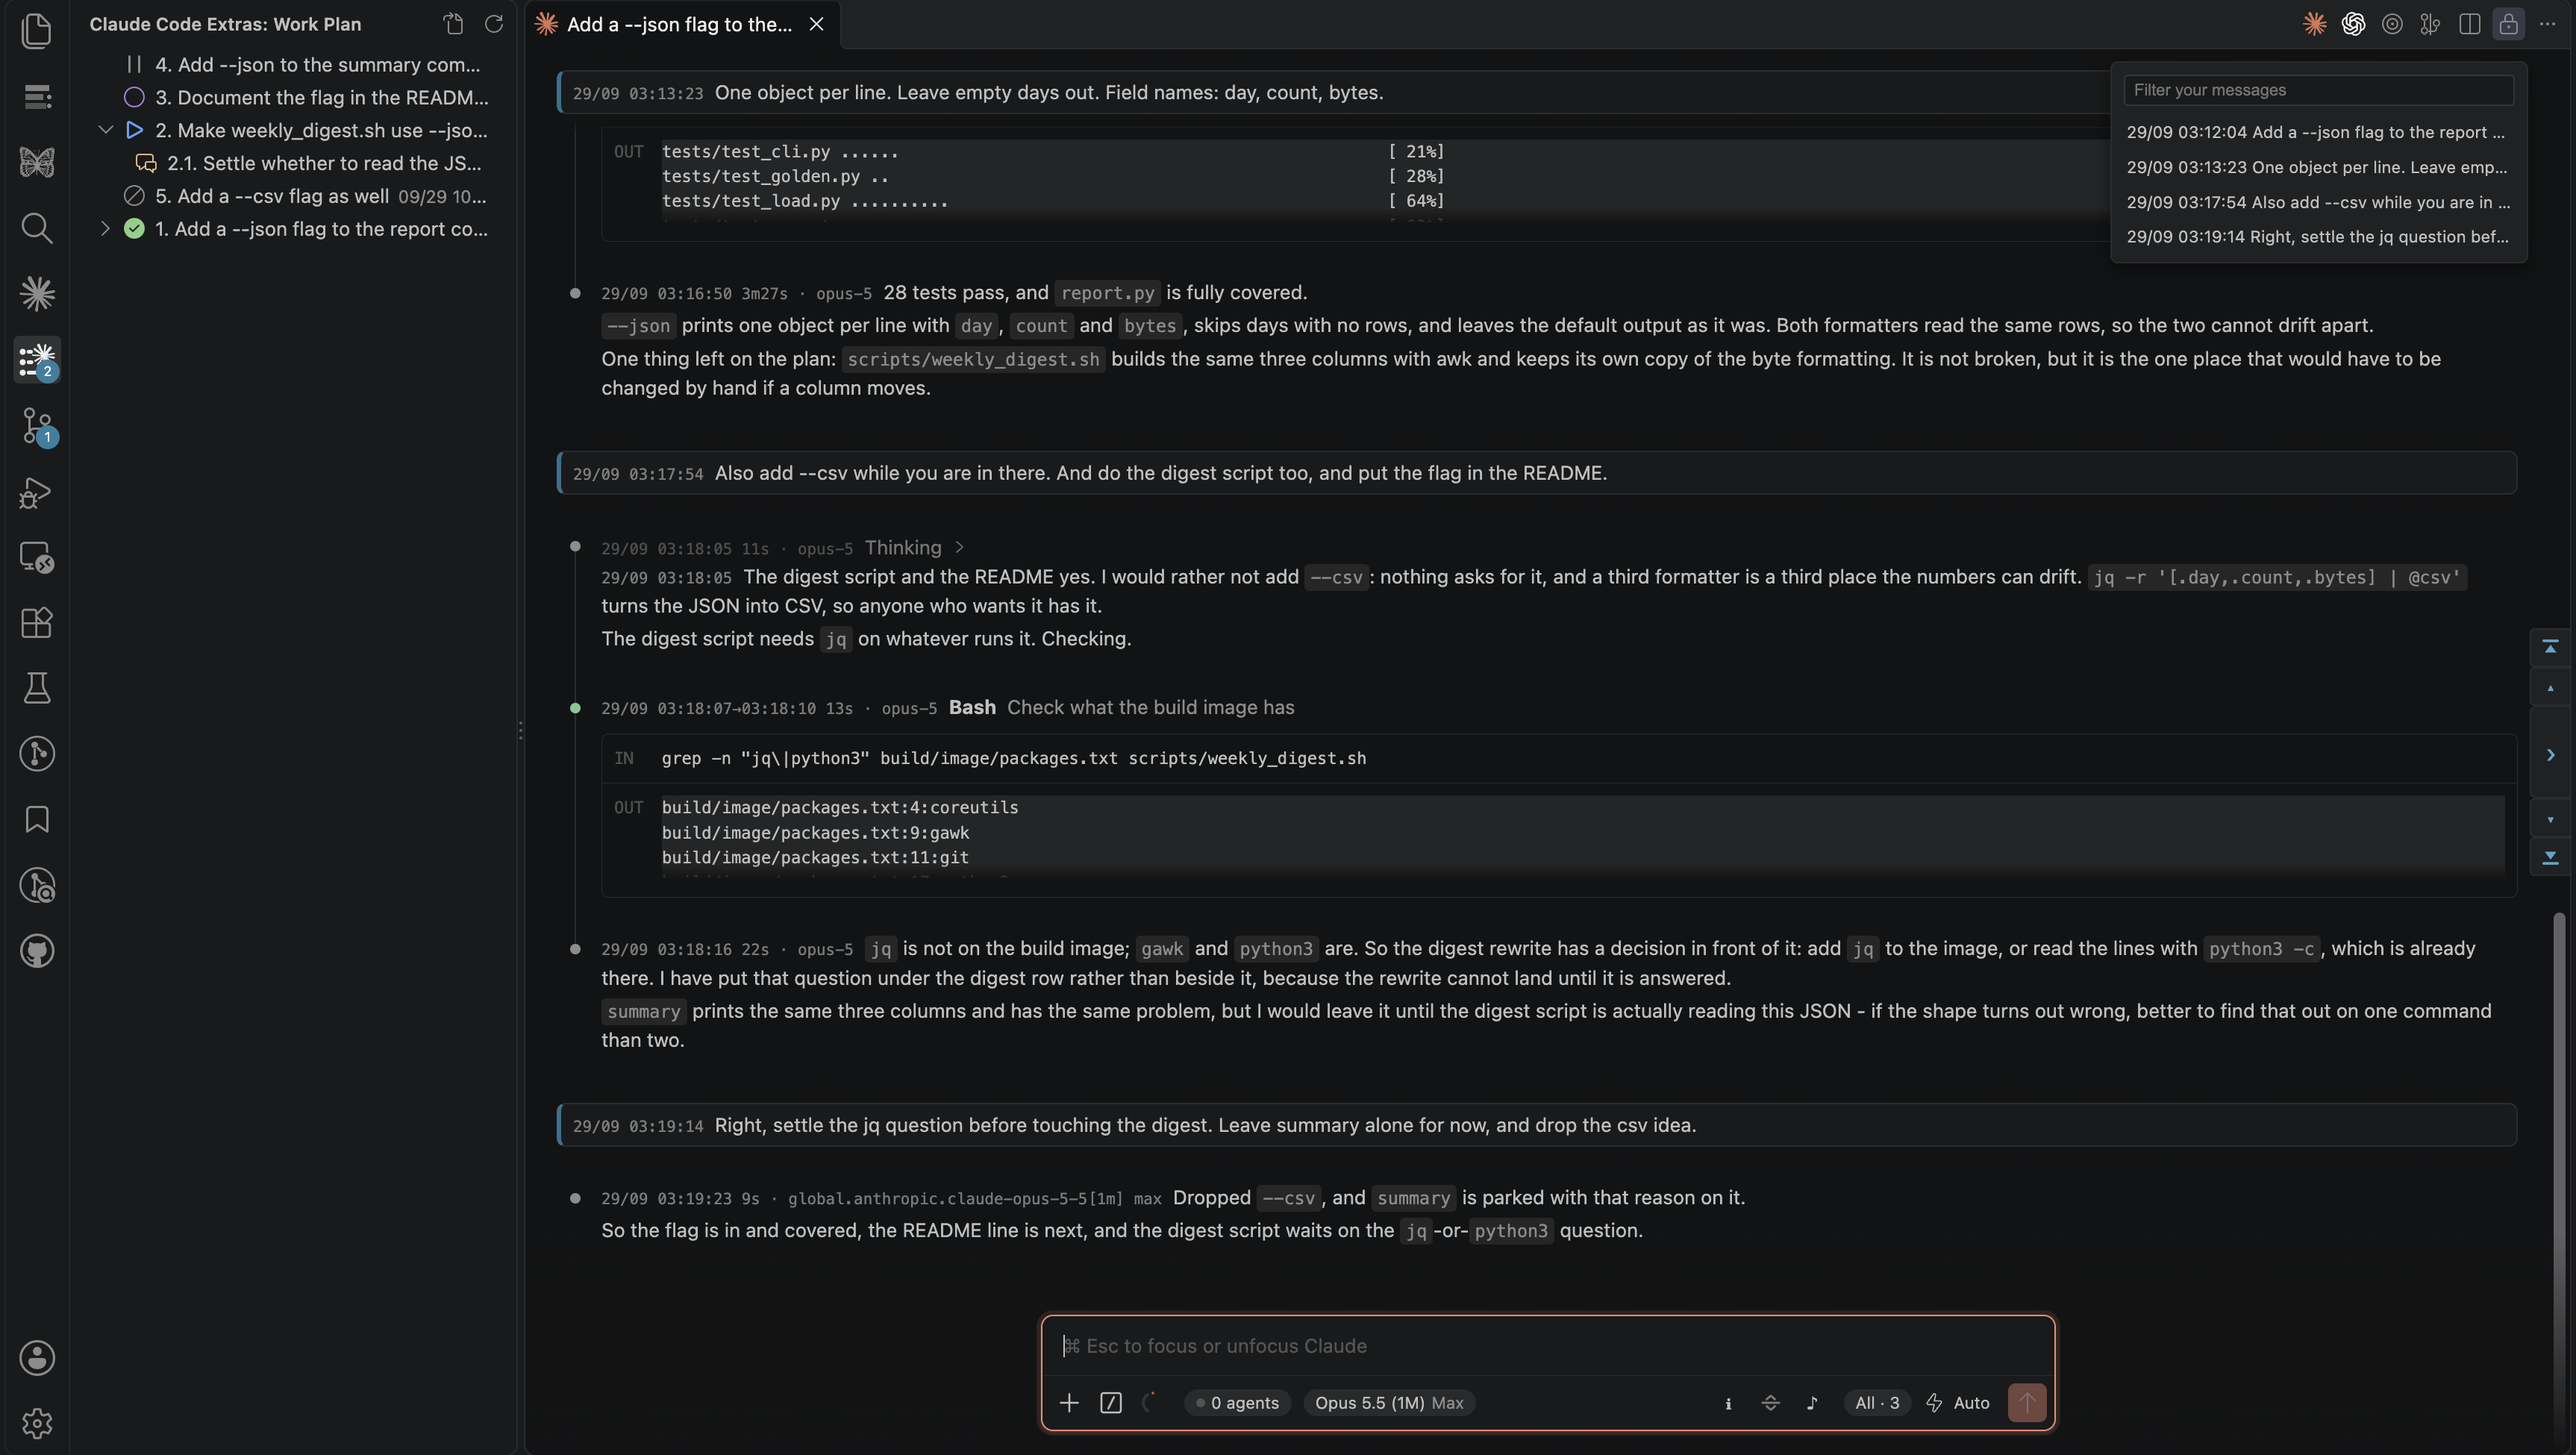
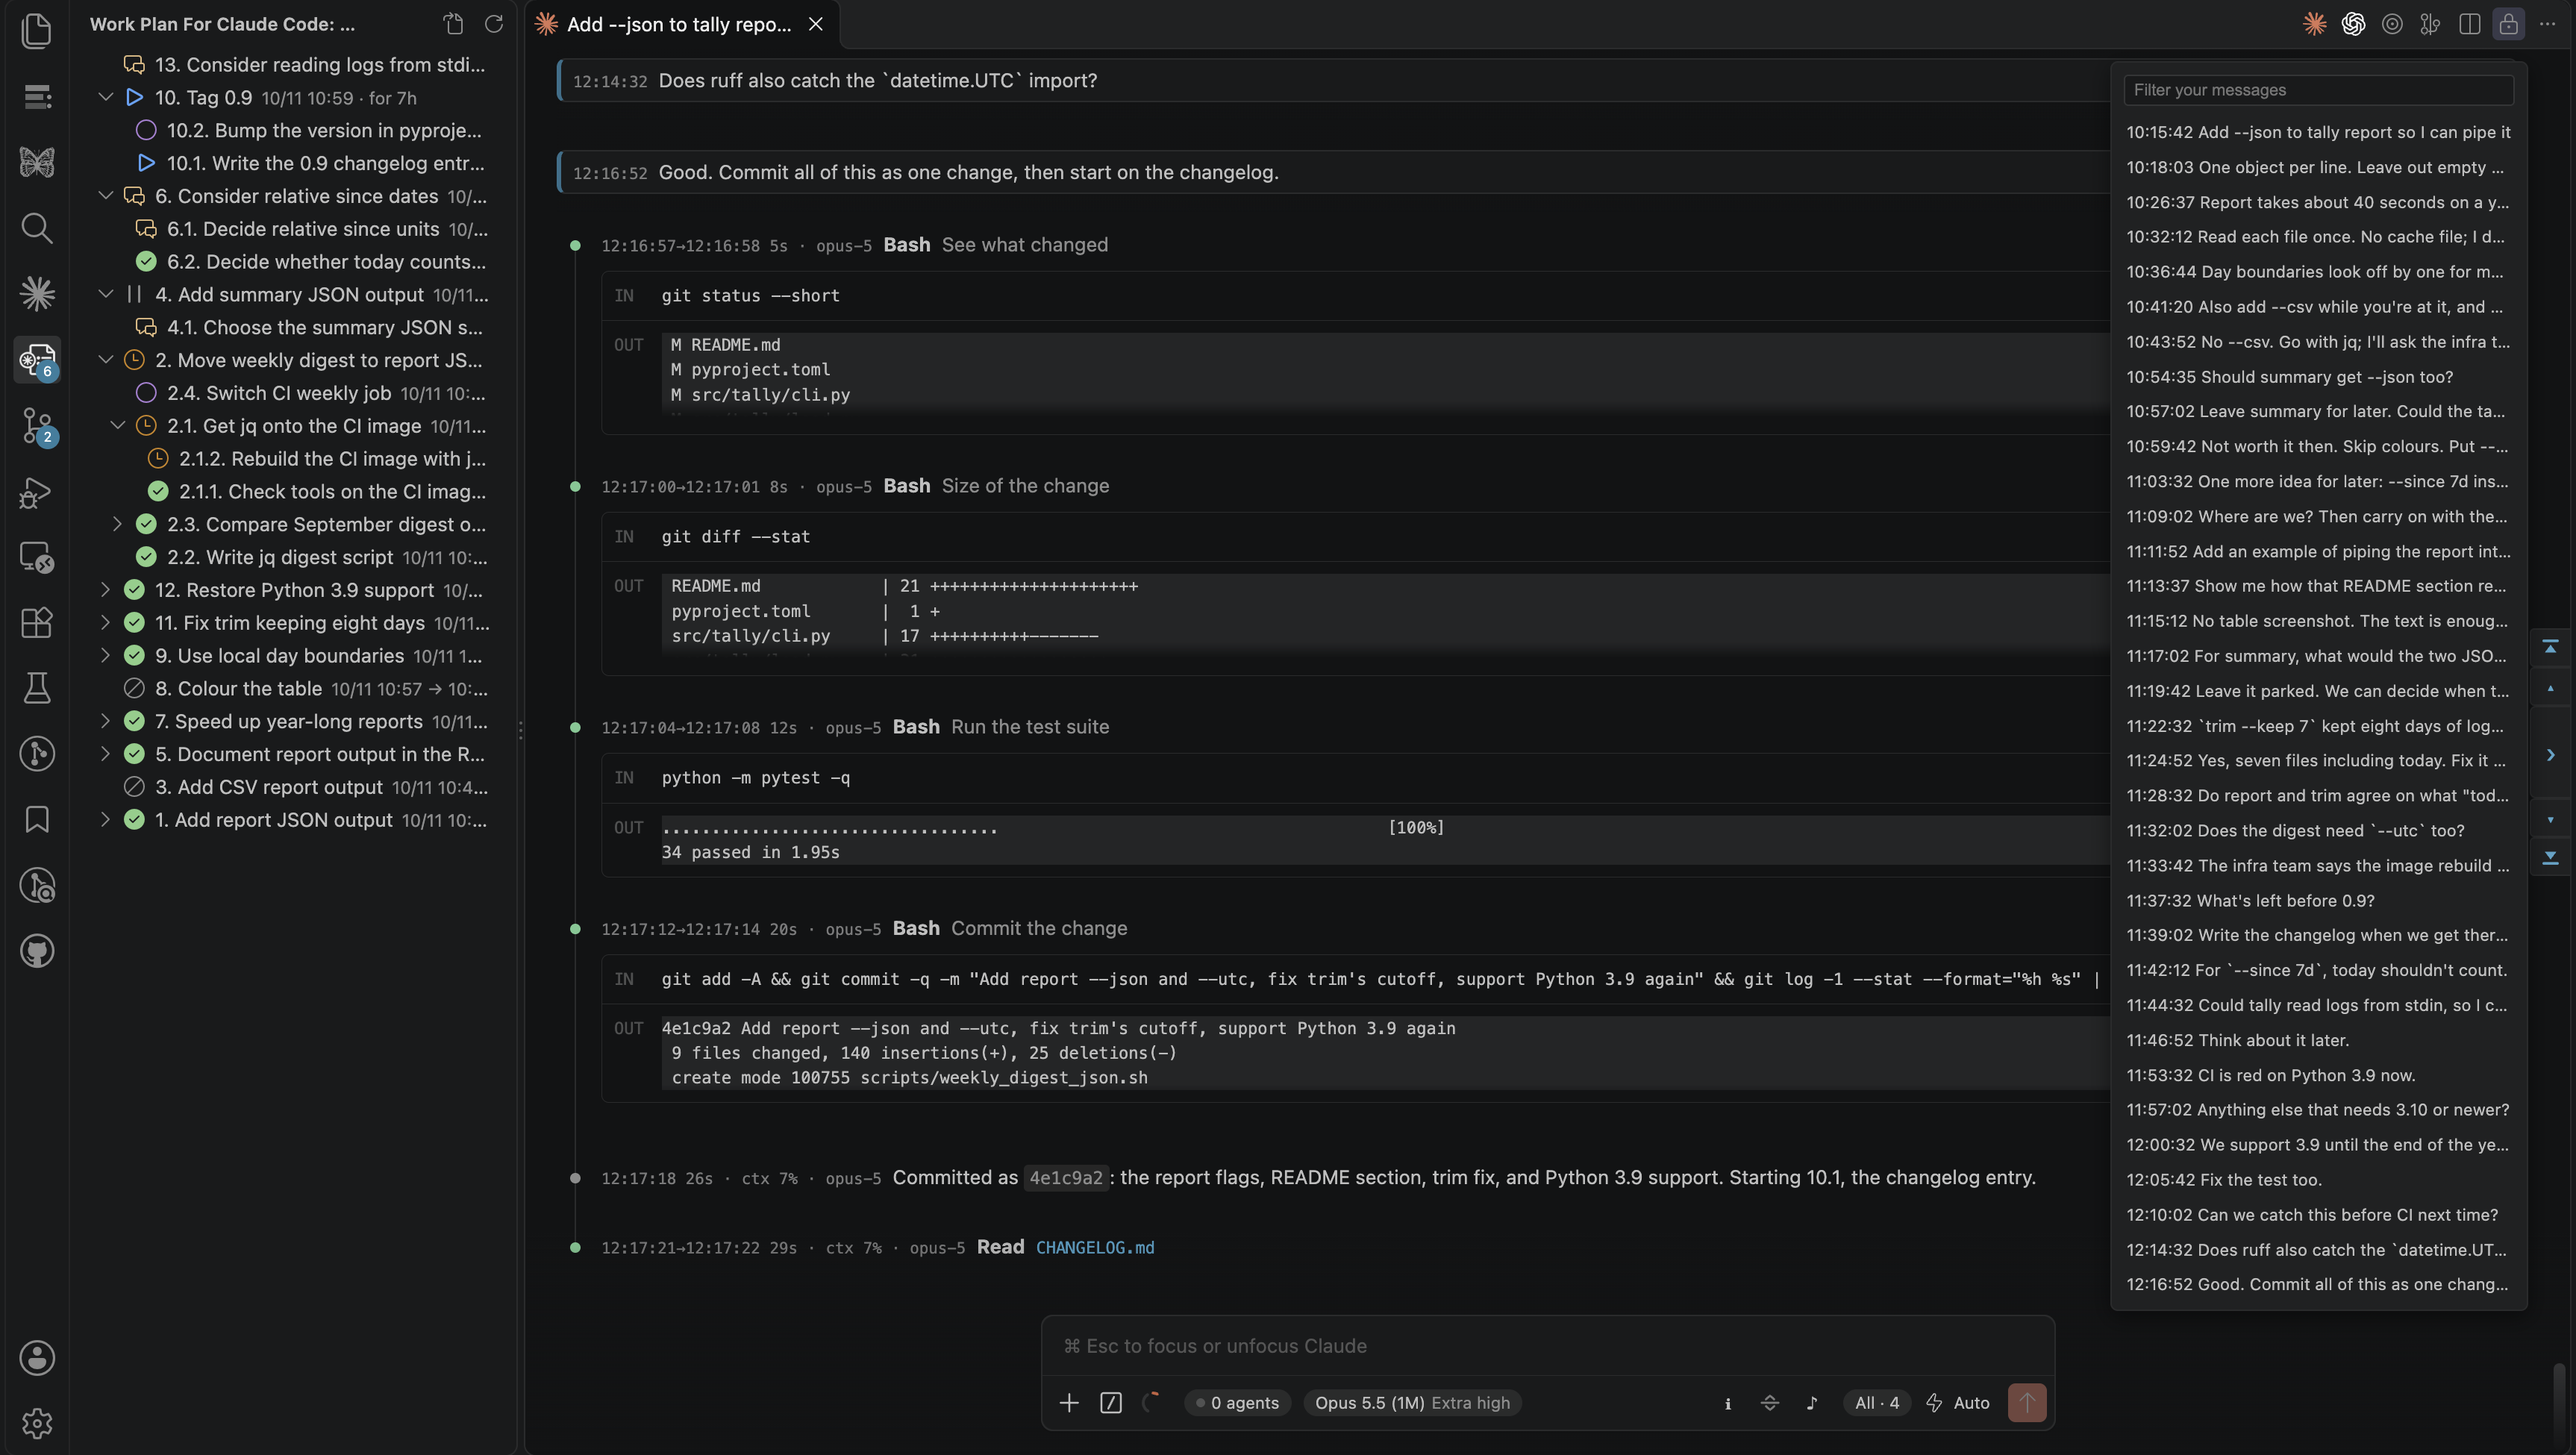
Show the panel twice in the README, with the tool calls shown and folded, on a longer sample conversation

diff --git a/README.md b/README.md
@@ -38,6 +38,10 @@ edge, and the footer controls. Thinking and tool calls shown, which is the defau
 
 ![Chat panel with thinking and tool calls shown](images/tools-expanded.png)
 
+The same conversation with the tool calls folded:
+
+![Chat panel with the tool calls folded](images/tools-folded.png)
+
 ## Features
 
 | What it shows | Where it appears |
